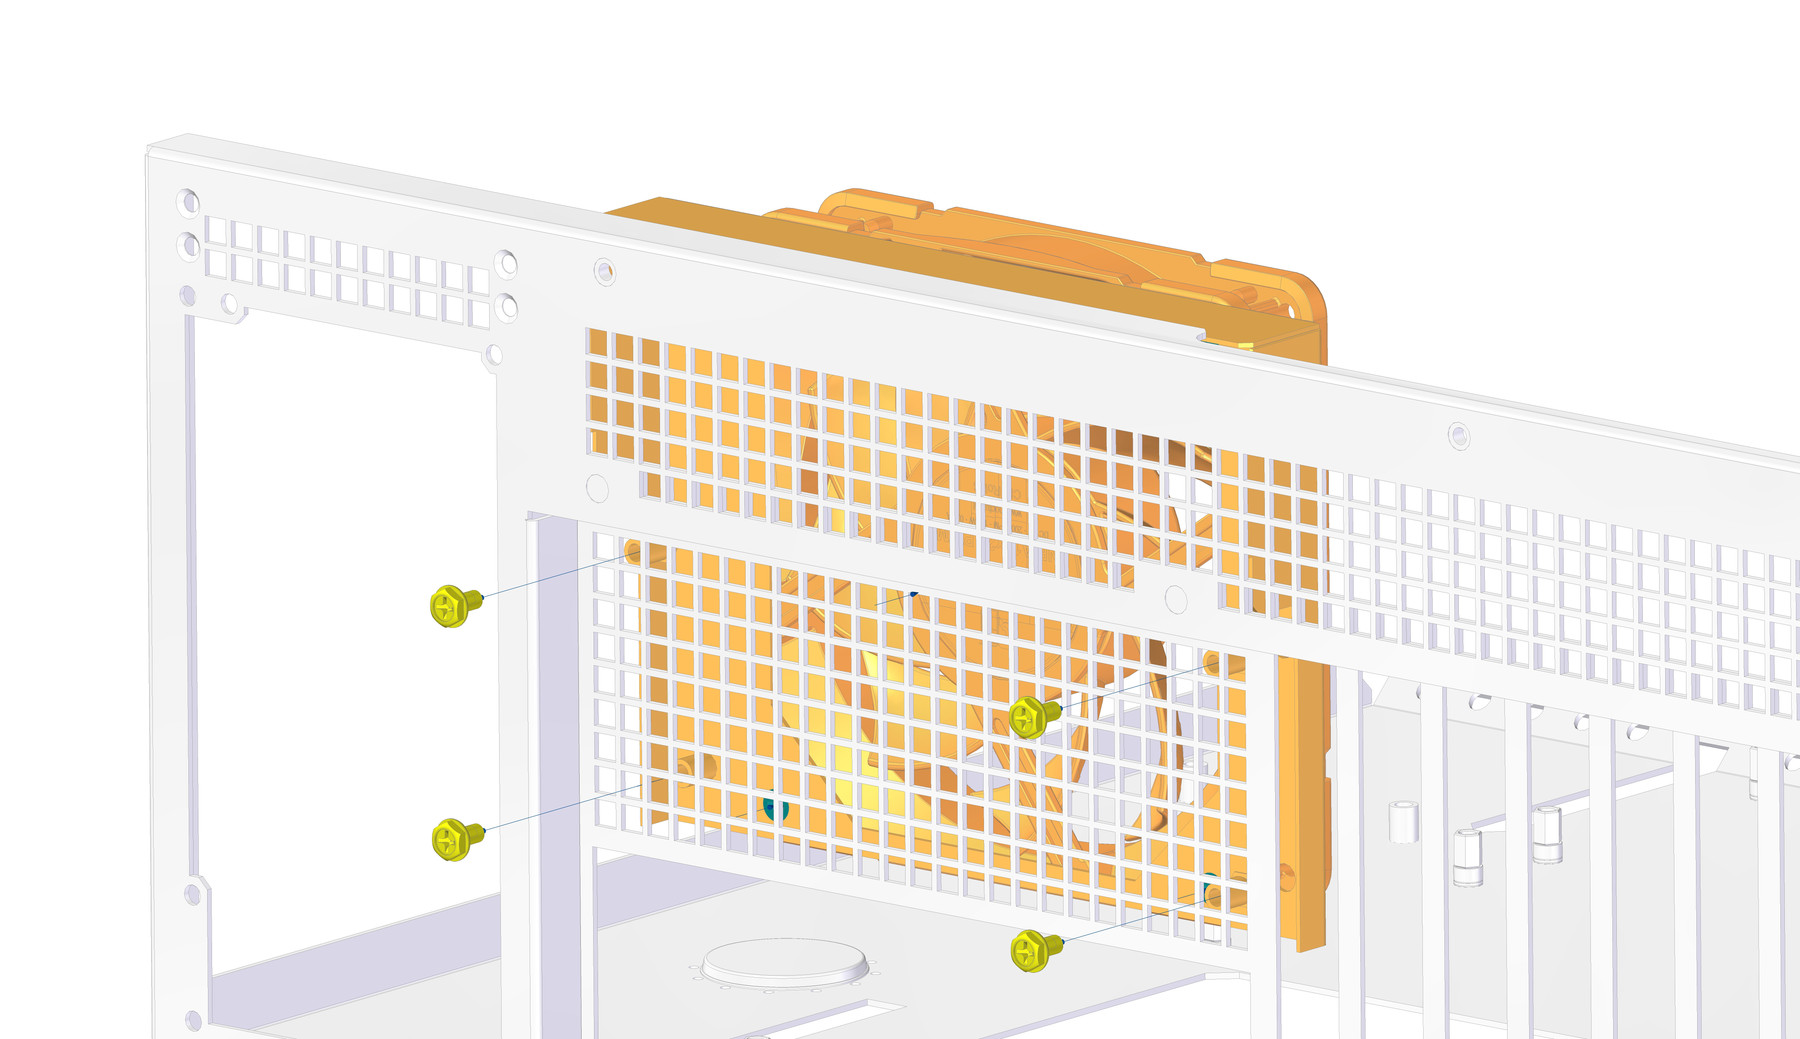
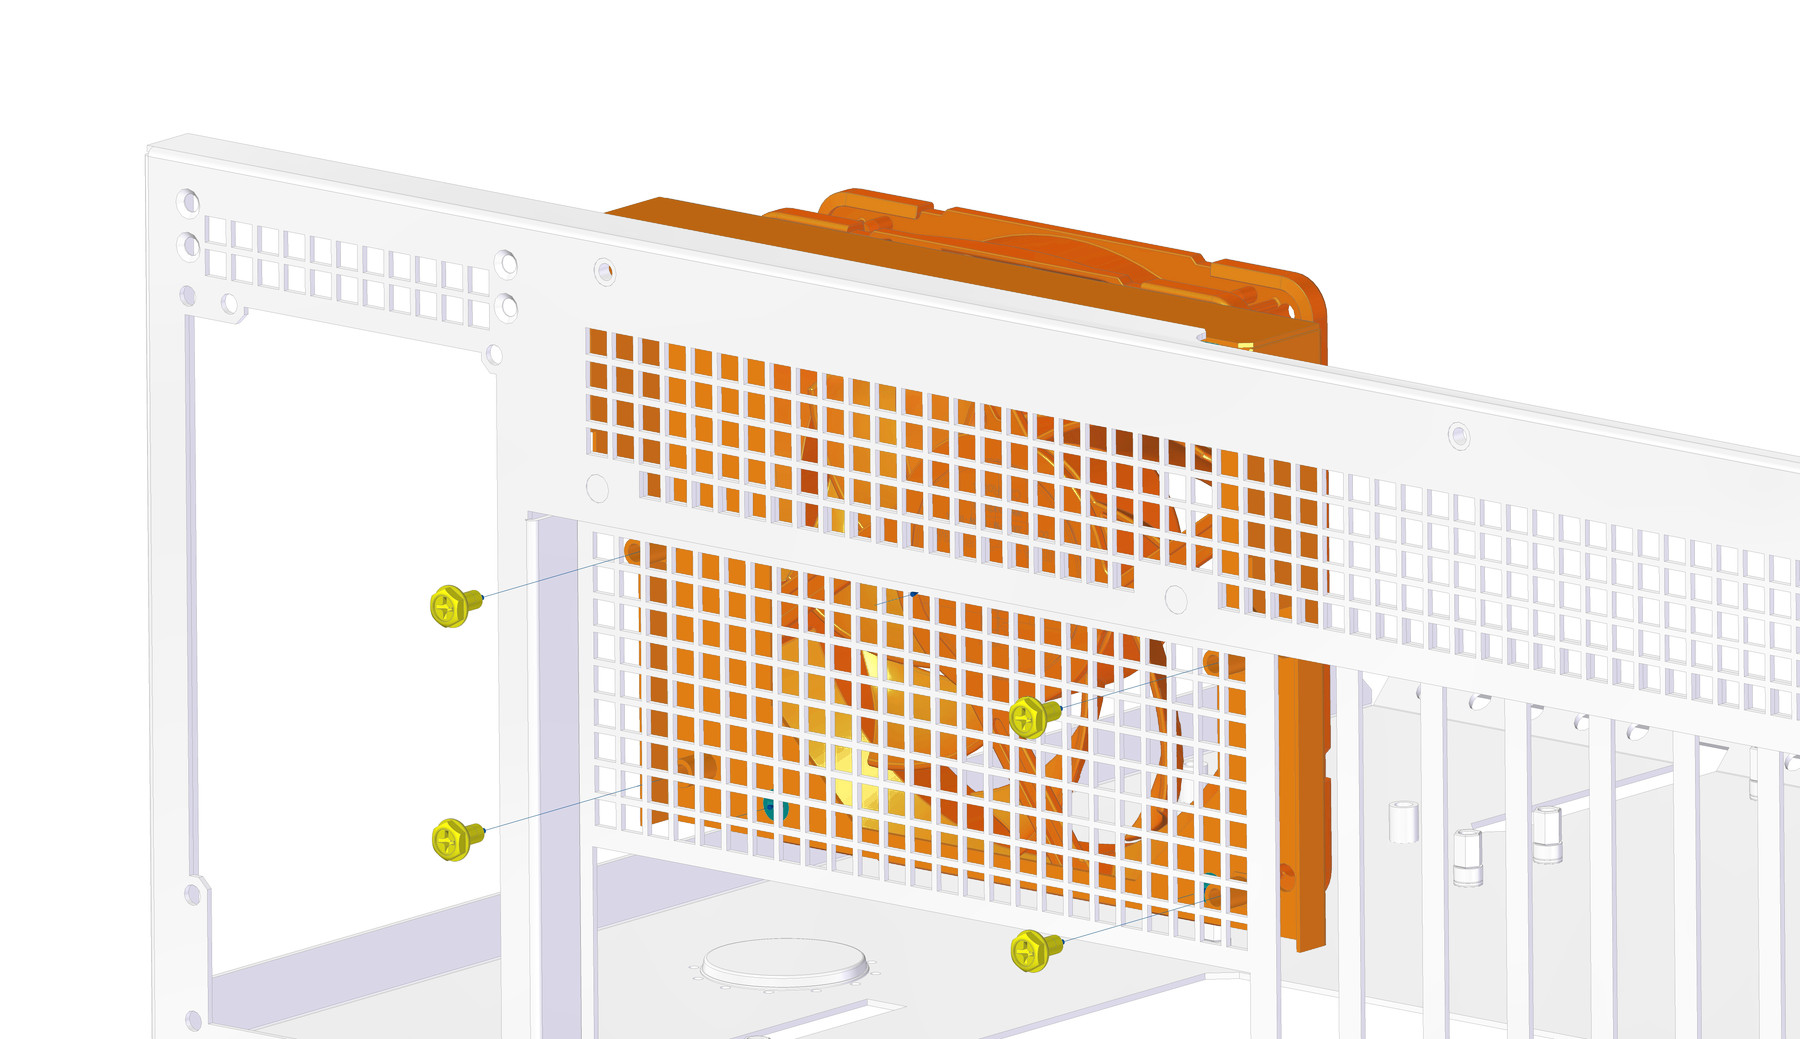
Match the rear fan bracket renders to the manual orange
New color_adjustment inventory setting (scripts/color_adjustment.py): prepare_assets
shifts one hue band of the publication copy after resizing - here the pale tan
bracket becomes redder, more saturated and darker, like the other renders' orange.
The red fan, screws and white parts are outside the band; originals unchanged.
numpy pinned in requirements.txt for it.

Changed region(s): [[0.3111, 0.308, 0.7467, 0.924], [0.3422, 0.1848, 0.7467, 0.3696]]

diff --git a/scripts/prepare_assets.py b/scripts/prepare_assets.py
@@ -7,6 +7,9 @@ from pathlib import Path
 from manual_paths import MODEL_CATEGORIES, REFERENCE_INVENTORY, content_directory, inventory_path, published_directory
 from PIL import Image, ImageOps
 from background_cleanup import white_background
+from color_adjustment import shift_hue_band
+
+COLOUR_SETTINGS = ('hue_range_deg', 'hue_shift_deg', 'saturation_scale', 'value_scale', 'min_saturation')
 
 ROOT = Path(__file__).resolve().parents[1]
 
@@ -53,10 +56,13 @@ def main():
         # Cleaned copies are lossless PNG unless the entry asks for JPEG (rackmount, to keep the repository small).
         cleaned_png = bool(cleanup) and cleanup.get('publication_format', 'png') == 'png'
         suffix = '.png' if original.suffix.lower() == '.png' or cleaned_png else '.jpg'
+        colour = entry.get('color_adjustment')
+        colour_settings = {key: colour[key] for key in COLOUR_SETTINGS if key in colour} if colour else None
         previous = manifests[group].get(name)
         if (group == 'common' and previous and previous['source_sha256'] == entry['sha256']
                 and previous['path'].endswith(suffix)
                 and bool(previous.get('background_cleanup')) == bool(cleanup)
+                and {key: value for key, value in previous.get('color_adjustment', {}).items() if key in COLOUR_SETTINGS} == (colour_settings or {})
                 and (ROOT / previous['path']).exists()
                 and hashlib.sha256((ROOT / previous['path']).read_bytes()).hexdigest() == previous['sha256']):
             continue
@@ -79,6 +85,10 @@ def main():
             else:
                 image = image.convert('RGBA' if suffix == '.png' else 'RGB')
             image.thumbnail((1800, 1400), Image.Resampling.LANCZOS)
+            colour_report = None
+            if colour:  # after resizing: the same result at a fraction of the memory for 9000 px renders
+                assert image.mode == 'RGB', (name, 'colour adjustment supports RGB publication copies')
+                image, colour_report = shift_hue_band(image, **colour_settings)
             if suffix == '.png':
                 image.save(target, optimize=True)
             else:
@@ -88,6 +98,8 @@ def main():
         if cleanup_report:
             encoding = 'lossless RGB PNG' if suffix == '.png' else 'RGB JPEG quality 90, subsampling 0'
             transformation = f'EXIF orientation; flat gray background replaced with white before resizing; fit within 1800x1400 without upscaling; no crop; {encoding}. Full-resolution cleaned copy saved separately; original unchanged.'
+        if colour_report:
+            transformation += ' Part colour matched to the manual orange after resizing (color_adjustment); original unchanged.'
         manifests[group][name] = {
             'path': target.relative_to(ROOT).as_posix(),
             'source_path': entry['local_path'], 'source_sha256': entry['sha256'],
@@ -98,6 +110,8 @@ def main():
         }
         if cleanup_report:
             manifests[group][name]['background_cleanup'] = cleanup_report
+        if colour_report:
+            manifests[group][name]['color_adjustment'] = colour_report
     for group, manifest in manifests.items():
         (published_directory(group) / 'manifest.json').write_text(json.dumps(manifest, indent=2) + '\n')
     print(f'Prepared {len(names)} selected publication assets; originals unchanged.')

diff --git a/scripts/color_adjustment.py b/scripts/color_adjustment.py
@@ -1,0 +1,30 @@
+"""Shift one hue band of a render toward the manual's standard part colour (e.g. a pale tan
+bracket toward the orange used in the other renders). Pixels outside the band (white, grey,
+screws, other parts) are unchanged; a soft edge on the hue and saturation limits avoids seams."""
+import numpy as np
+from PIL import Image
+
+EDGE_DEGREES = 4.0
+EDGE_SATURATION = 0.15
+
+
+def shift_hue_band(image, hue_range_deg, hue_shift_deg, saturation_scale, value_scale, min_saturation=0.15):
+    low, high = hue_range_deg
+    assert 0 <= low < high <= 360 and -30 <= hue_shift_deg <= 30
+    assert 0.5 <= saturation_scale <= 2 and 0.5 <= value_scale <= 1.5
+    hsv = np.asarray(image.convert('RGB').convert('HSV')).astype(np.float32)
+    hue, saturation, value = hsv[..., 0] * 360 / 255, hsv[..., 1] / 255, hsv[..., 2] / 255
+    weight = (np.clip((hue - (low - EDGE_DEGREES)) / EDGE_DEGREES, 0, 1)
+              * np.clip(((high + EDGE_DEGREES) - hue) / EDGE_DEGREES, 0, 1)
+              * np.clip((saturation - min_saturation) / EDGE_SATURATION, 0, 1))
+    hue = (hue + hue_shift_deg * weight) % 360
+    saturation = np.clip(saturation * (1 + (saturation_scale - 1) * weight), 0, 1)
+    value = np.clip(value * (1 + (value_scale - 1) * weight), 0, 1)
+    out = np.stack([hue * 255 / 360, saturation * 255, value * 255], -1).round().clip(0, 255).astype(np.uint8)
+    adjusted = Image.fromarray(out, 'HSV').convert('RGB')
+    return adjusted, {
+        'hue_range_deg': list(hue_range_deg), 'hue_shift_deg': hue_shift_deg,
+        'saturation_scale': saturation_scale, 'value_scale': value_scale, 'min_saturation': min_saturation,
+        'pixels_adjusted': int((weight > 0).sum()), 'total_pixels': int(weight.size),
+        'method': 'HSV shift of pixels inside the hue band, weighted by a soft edge on hue and saturation; other pixels unchanged.',
+    }
